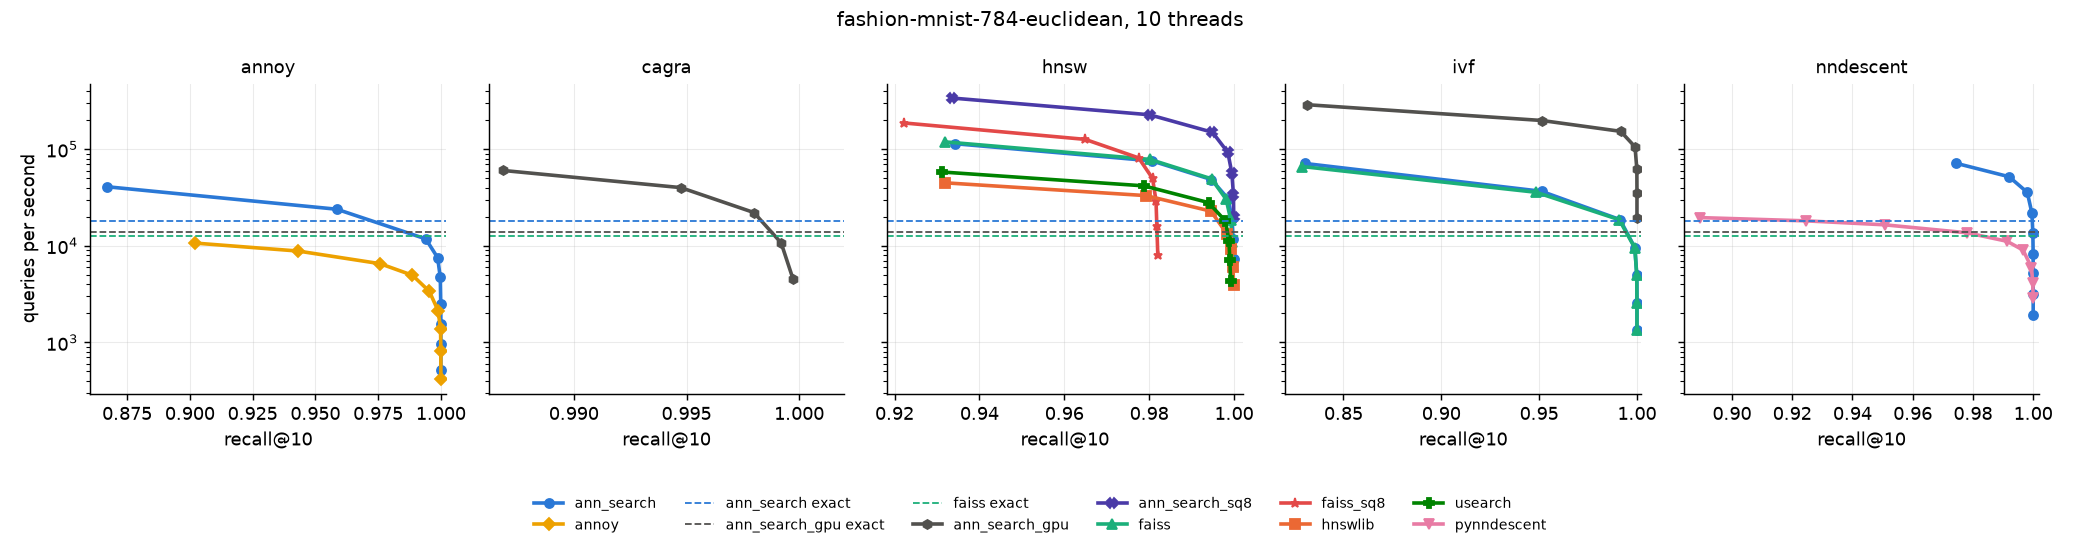
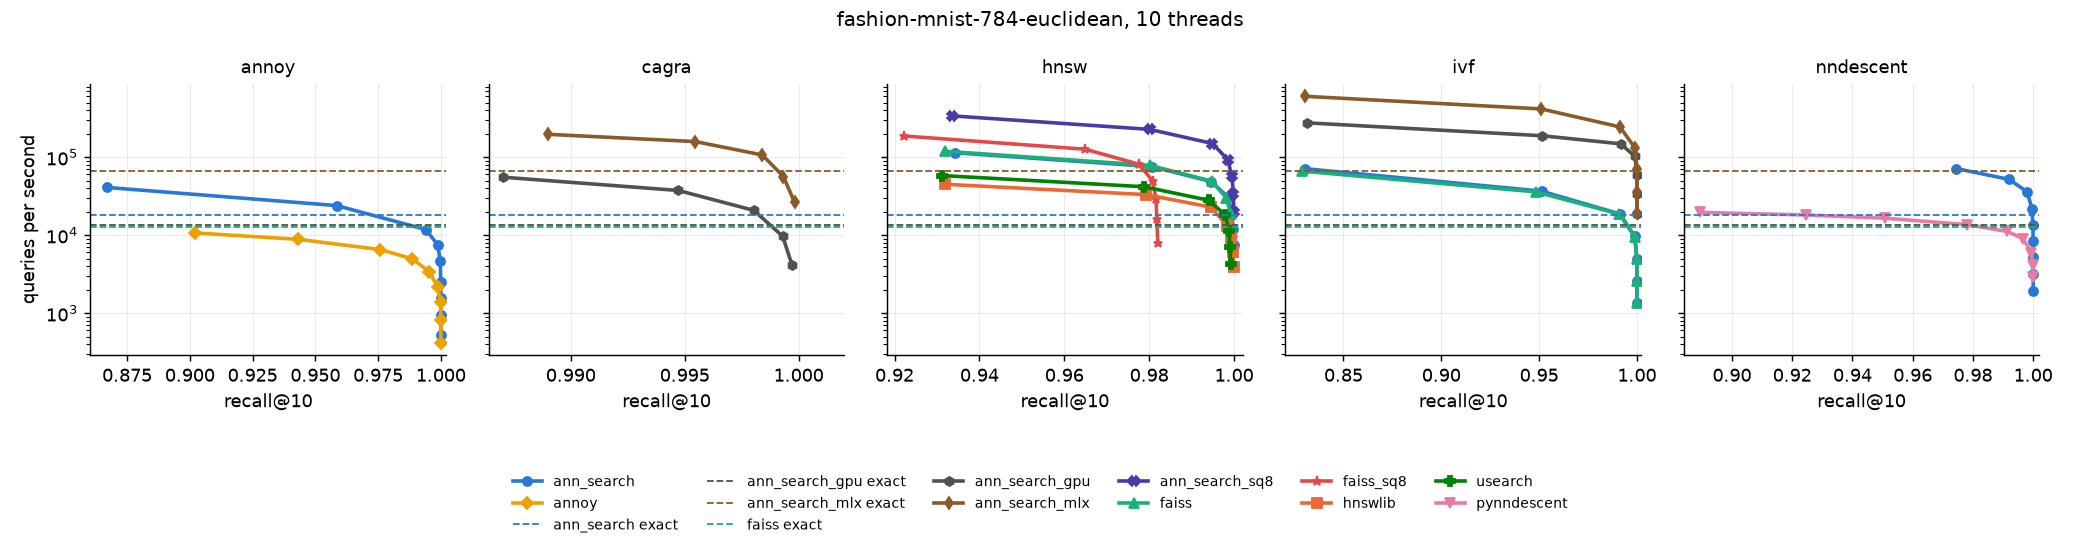
docs: add MLX rows and rerun GPU rows in the cross-library comparison

diff --git a/docs/benchmarks_comparison.md b/docs/benchmarks_comparison.md
@@ -61,6 +61,11 @@ uv run bench.py summarise
   needed. Thread counts don't apply to them, so the 1-thread run leaves them
   out. Memory is unified here, so their footprint includes the device
   buffers.
+- `ann_search_mlx` rows are the same three indices on the experimental MLX
+  backend, which drives Metal directly. Apple Silicon only, and the binding has
+  to be built with the `mlx` feature and mlx-c installed (`brew install
+  mlx-c`); without it those entries fail to build. Same thread and memory
+  caveats as the wgpu rows.
 - Builds are a single run each. Read small gaps as ties.
 - "Best QPS at or above a target" depends on where the sweep grid steps fall.
   A library whose grid point lands at 0.909 counts at 0.90; one that lands at
@@ -85,9 +90,11 @@ uv run bench.py summarise
 |---|---|---:|---:|---:|---:|---:|---:|
 | annoy | **ann_search** | 1.6 | 905 | 547 | 23,900 | 23,900 | 11,787 |
 | annoy | annoy | 4.4 | 435 | 238 | 10,657 | 6,523 | 3,376 |
-| cagra | **ann_search_gpu** | 8.6 | 2,290 | 1,690 | 60,202 | 60,202 | 40,005 |
+| cagra | **ann_search_mlx** | 4.7 | 1,296 | 961 | 196,279 | 196,279 | 158,286 |
+| cagra | **ann_search_gpu** | 6.5 | 2,294 | 1,686 | 55,251 | 55,251 | 37,363 |
+| exhaustive | **ann_search_mlx** | 0.0 | 584 | 405 | 65,524 | 65,524 | 65,524 |
 | exhaustive | **ann_search** | 0.0 | 402 | 223 | 17,988 | 17,988 | 17,988 |
-| exhaustive | **ann_search_gpu** | 0.0 | 584 | 225 | 13,964 | 13,964 | 13,964 |
+| exhaustive | **ann_search_gpu** | 0.0 | 584 | 219 | 13,648 | 13,648 | 13,648 |
 | exhaustive | faiss | 0.0 | 359 | 180 | 12,769 | 12,769 | 12,769 |
 | hnsw | **ann_search_sq8** | 1.4 | 587 | 58 | 338,286 | 227,144 | 149,588 |
 | hnsw | faiss_sq8 | 3.2 | 234 | 54 | 187,017 | 126,388 | n/a |
@@ -95,7 +102,8 @@ uv run bench.py summarise
 | hnsw | **ann_search** | 3.4 | 414 | 234 | 113,957 | 75,699 | 48,528 |
 | hnsw | usearch | 6.5 | 376 | 196 | 58,030 | 41,721 | 27,996 |
 | hnsw | hnswlib | 8.3 | 381 | 202 | 44,841 | 33,074 | 22,809 |
-| ivf | **ann_search_gpu** | 1.4 | 2,166 | 1,449 | 198,148 | 198,148 | 153,022 |
+| ivf | **ann_search_mlx** | 0.4 | 1,423 | 706 | 415,152 | 415,152 | 243,821 |
+| ivf | **ann_search_gpu** | 1.5 | 1,987 | 1,268 | 188,243 | 188,243 | 148,205 |
 | ivf | **ann_search** | 1.2 | 761 | 223 | 36,642 | 36,642 | 18,662 |
 | ivf | faiss | 0.5 | 424 | 243 | 35,808 | 18,615 | 18,615 |
 | nndescent | **ann_search** | 3.4 | 1,065 | 506 | 71,451 | 71,451 | 51,848 |
@@ -132,8 +140,10 @@ The ann-benchmarks convention.
 |---|---|---:|---:|---:|---:|---:|---:|
 | annoy | **ann_search** | 8.0 | 2,433 | 1,137 | 12,019 | 6,873 | 3,306 |
 | annoy | annoy | 19.3 | 1,792 | 1,240 | 7,959 | 4,456 | 1,284 |
-| cagra | **ann_search_gpu** | 21.7 | 10,337 | 9,361 | 66,477 | 30,949 | 3,852 |
-| exhaustive | **ann_search_gpu** | 0.1 | 1,465 | 488 | 4,958 | 4,958 | 4,958 |
+| cagra | **ann_search_mlx** | 13.2 | 11,034 | 9,690 | 83,538 | 52,761 | 15,042 |
+| cagra | **ann_search_gpu** | 18.6 | 9,528 | 8,338 | 62,905 | 29,758 | 3,621 |
+| exhaustive | **ann_search_mlx** | 0.1 | 1,470 | 982 | 12,159 | 12,159 | 12,159 |
+| exhaustive | **ann_search_gpu** | 0.1 | 1,465 | 489 | 4,762 | 4,762 | 4,762 |
 | exhaustive | **ann_search** | 0.1 | 978 | 490 | 3,648 | 3,648 | 3,648 |
 | exhaustive | faiss | 0.1 | 978 | 489 | 864 | 864 | 864 |
 | hnsw | **ann_search_sq8** | 22.9 | 1,038 | 195 | 191,845 | 108,377 | n/a |
@@ -142,7 +152,8 @@ The ann-benchmarks convention.
 | hnsw | faiss | 51.1 | 1,143 | 640 | 74,621 | 40,739 | 23,708 |
 | hnsw | hnswlib | 84.6 | 1,256 | 768 | 42,436 | 24,582 | 12,691 |
 | hnsw | usearch | 111.5 | 1,229 | 725 | 29,667 | 16,799 | 9,594 |
-| ivf | **ann_search_gpu** | 2.9 | 4,033 | 1,600 | 98,749 | 59,046 | 28,676 |
+| ivf | **ann_search_mlx** | 0.9 | 5,282 | 3,813 | 231,446 | 119,196 | 65,763 |
+| ivf | **ann_search_gpu** | 2.9 | 4,036 | 1,602 | 91,291 | 56,254 | 27,268 |
 | ivf | **ann_search** | 1.7 | 1,485 | 493 | 13,778 | 7,039 | 3,593 |
 | ivf | faiss | 8.7 | 1,170 | 682 | 13,734 | 7,158 | 3,609 |
 | nndescent | **ann_search** | 27.4 | 3,582 | 1,388 | 66,570 | 37,006 | 20,227 |
@@ -156,8 +167,10 @@ The ann-benchmarks convention.
 |---|---|---:|---:|---:|---:|---:|---:|
 | annoy | **ann_search** | 11.5 | 2,389 | 1,143 | 6,928 | 2,999 | 1,681 |
 | annoy | annoy | 24.8 | 2,127 | 1,608 | 3,445 | 1,588 | 886 |
-| cagra | **ann_search_gpu** | 25.1 | 10,201 | 9,298 | 28,637 | 9,820 | n/a |
-| exhaustive | **ann_search_gpu** | 0.1 | 1,360 | 457 | 5,218 | 5,218 | 5,218 |
+| cagra | **ann_search_mlx** | 17.5 | 12,916 | 12,004 | 61,501 | 34,851 | n/a |
+| cagra | **ann_search_gpu** | 22.2 | 10,209 | 9,306 | 28,337 | 9,863 | n/a |
+| exhaustive | **ann_search_mlx** | 0.1 | 1,356 | 905 | 6,927 | 6,927 | 6,927 |
+| exhaustive | **ann_search_gpu** | 0.1 | 1,359 | 456 | 5,175 | 5,175 | 5,175 |
 | exhaustive | faiss | 0.3 | 913 | 453 | 3,725 | 3,725 | 3,725 |
 | exhaustive | **ann_search** | 0.1 | 909 | 457 | 2,889 | 2,889 | 2,889 |
 | hnsw | **ann_search_sq8** | 52.0 | 1,412 | 229 | 111,992 | 35,319 | 9,784 |
@@ -166,7 +179,8 @@ The ann-benchmarks convention.
 | hnsw | hnswlib | 111.5 | 1,231 | 779 | 39,380 | 13,468 | 3,998 |
 | hnsw | usearch | 155.6 | 1,243 | 792 | 27,202 | 8,882 | 2,530 |
 | hnsw | faiss_sq8 | 116.2 | 913 | 302 | 23,973 | 13,318 | 3,596 |
-| ivf | **ann_search_gpu** | 2.4 | 3,828 | 1,579 | 174,133 | 101,204 | 29,008 |
+| ivf | **ann_search_mlx** | 0.9 | 4,728 | 3,378 | 404,154 | 247,413 | 73,062 |
+| ivf | **ann_search_gpu** | 2.5 | 3,824 | 1,580 | 165,933 | 99,181 | 28,747 |
 | ivf | faiss | 6.3 | 1,080 | 628 | 29,608 | 15,492 | 4,197 |
 | ivf | **ann_search** | 1.7 | 1,383 | 475 | 28,154 | 14,567 | 3,891 |
 | nndescent | **ann_search** | 39.3 | 3,651 | 1,357 | 63,062 | 36,625 | 10,440 |
@@ -176,5 +190,5 @@ The ann-benchmarks convention.
 
 ### Runtime info
 
-*ann-search-rs 0.10.1 (commit v0.10.1-17-g0393802), run on 2026-10-09 on Apple M1 Max.*
+*ann-search-rs 0.10.1 (commit v0.10.1-17-g0393802), run on 2026-10-09 on Apple M1 Max. Runs span commits v0.10.1-17-g0393802, v0.10.1-63-g43dd9d8.*
 *All benchmarks were run on M1 Max MacBook Pro with 64 GB unified memory.*
